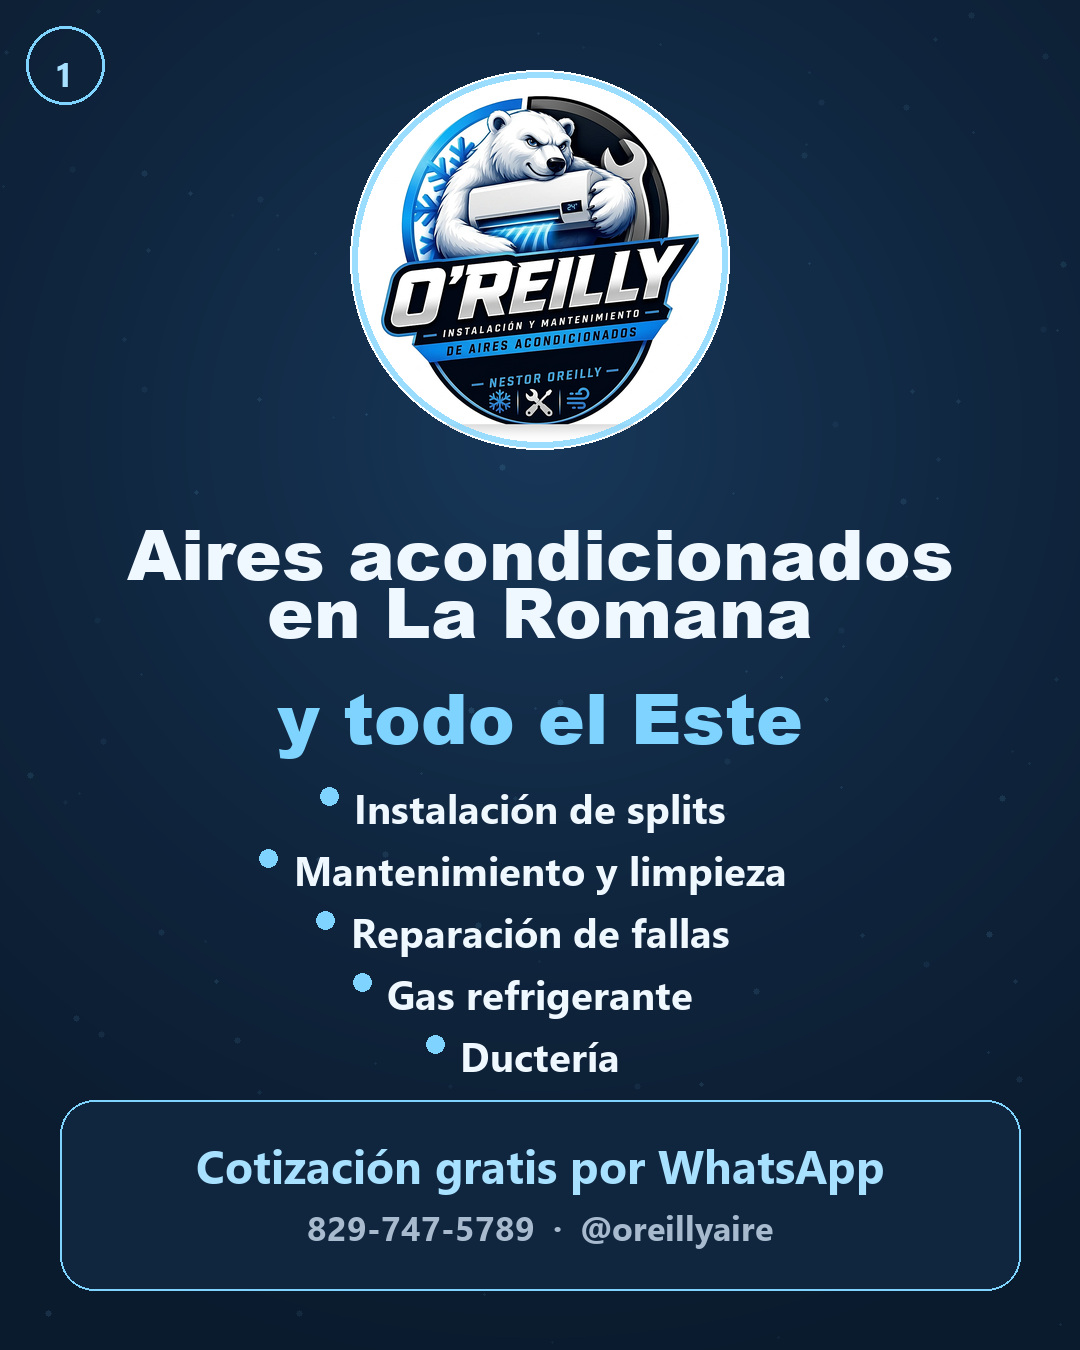
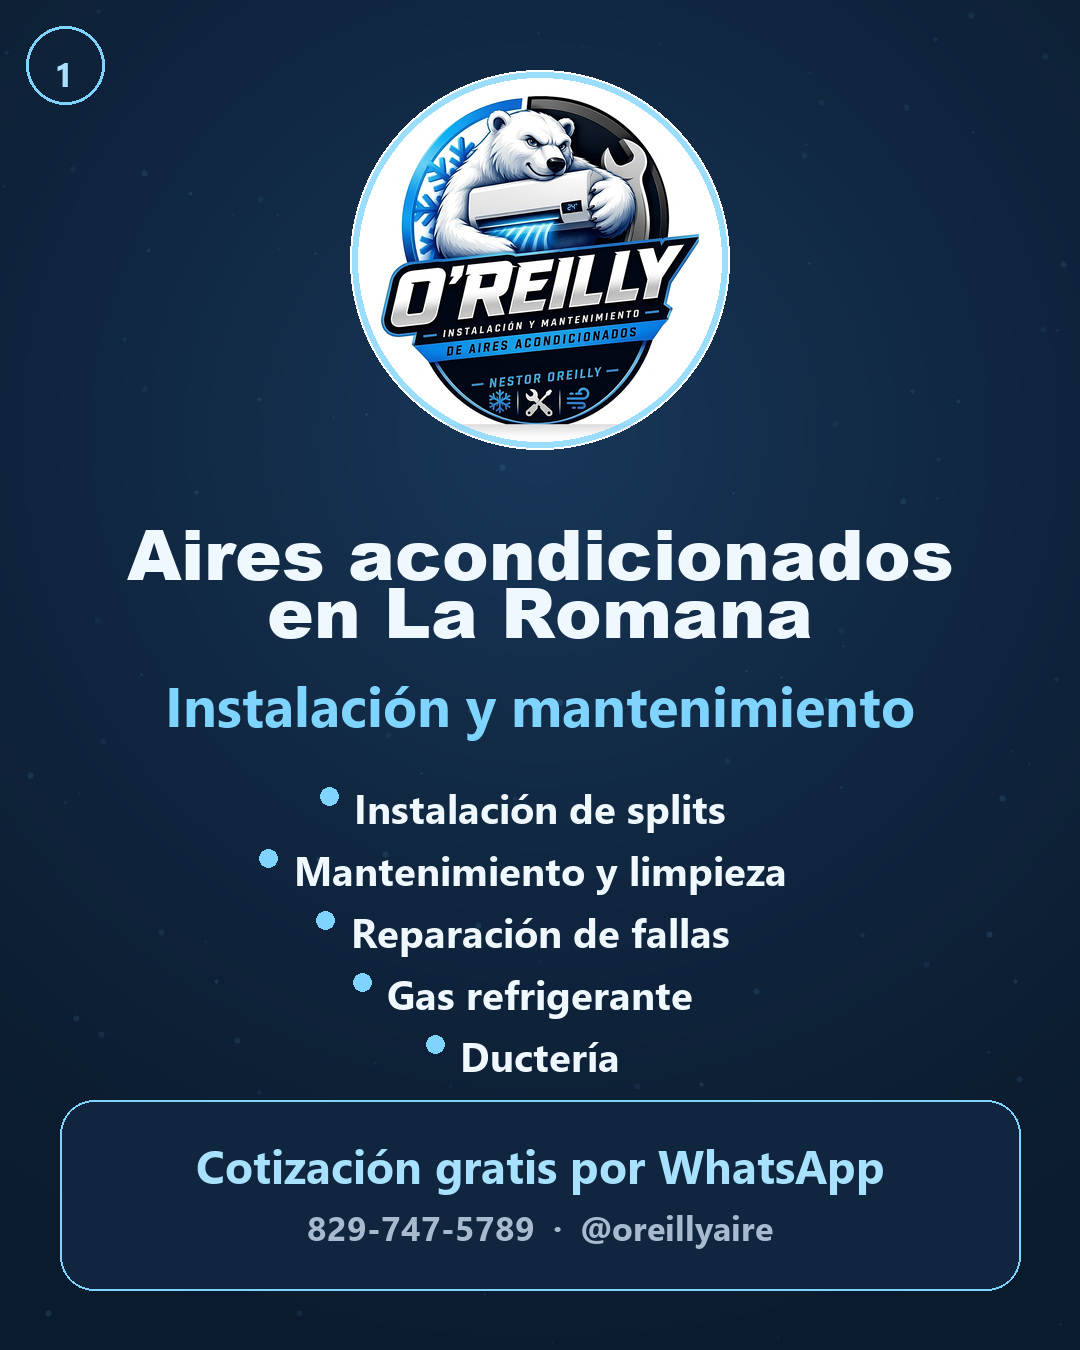
Add files via upload

Changed region(s): [[0.1528, 0.4978, 0.8556, 0.56]]

diff --git a/index.html b/index.html
@@ -68,7 +68,7 @@ y la nombras igual que aquí.</p>
 <code>https://wa.me/18297475789?text=Hola%2C%20quiero%20una%20cotizaci%C3%B3n%20gratis%20de%20aire%20acondicionado</code></div>
 <div class="step"><b>Biografía</b> — ya está puesta en el perfil:
 <code>❄ Instalación, mantenimiento, reparación y gas
-💧 Ductería | La Romana y todo el Este
+💧 Ductería | La Romana, R.D.
 📲 Cotización gratis por WhatsApp 👇</code></div>
 <div class="step"><b>Contacto (Edit profile → Contact options)</b>: teléfono <b>829-747-5789</b> + botón de WhatsApp.</div>
 <h2>4 · Posts listos (ya publicados hoy)</h2>
@@ -85,7 +85,7 @@ o para volver a publicarlos desde el teléfono.</p>
 <h2>5 · Captions usados (copy/paste)</h2>
 <div class="step"><b>Post 1 — Bienvenida</b>
 <code>Somos O'Reilly ❄
-Instalación, mantenimiento, reparación, gas y ductería de aires acondicionados en La Romana y todo el Este.
+Instalación, mantenimiento, reparación, gas y ductería de aires acondicionados en La Romana.
 Trabajamos con garantía y respuesta el mismo día.
 📲 Cotización gratis por WhatsApp: 829-747-5789
 #aireacondicionado #LaRomana #republicadominicana #instalaciondeaire #oreillyaire</code></div>
@@ -101,10 +101,10 @@ Guardá esto y revisá el tuyo hoy ❄
 <div class="step"><b>Post 3 — Cotización gratis</b>
 <code>Tu aire no tiene que esperar 🔧
 Instalación · Mantenimiento · Reparación · Gas · Ductería
-La Romana y todo el Este · Cotización GRATIS
+La Romana · Cotización GRATIS
 📲 WhatsApp: 829-747-5789
 #aireacondicionado #LaRomana #reparacionaire #aireacondicionadoRD #oreillyaire</code></div>
 
-<!-- POSTS-KIT-V3 -->
+<!-- POSTS-KIT-V4 -->
 </body>
 </html>
